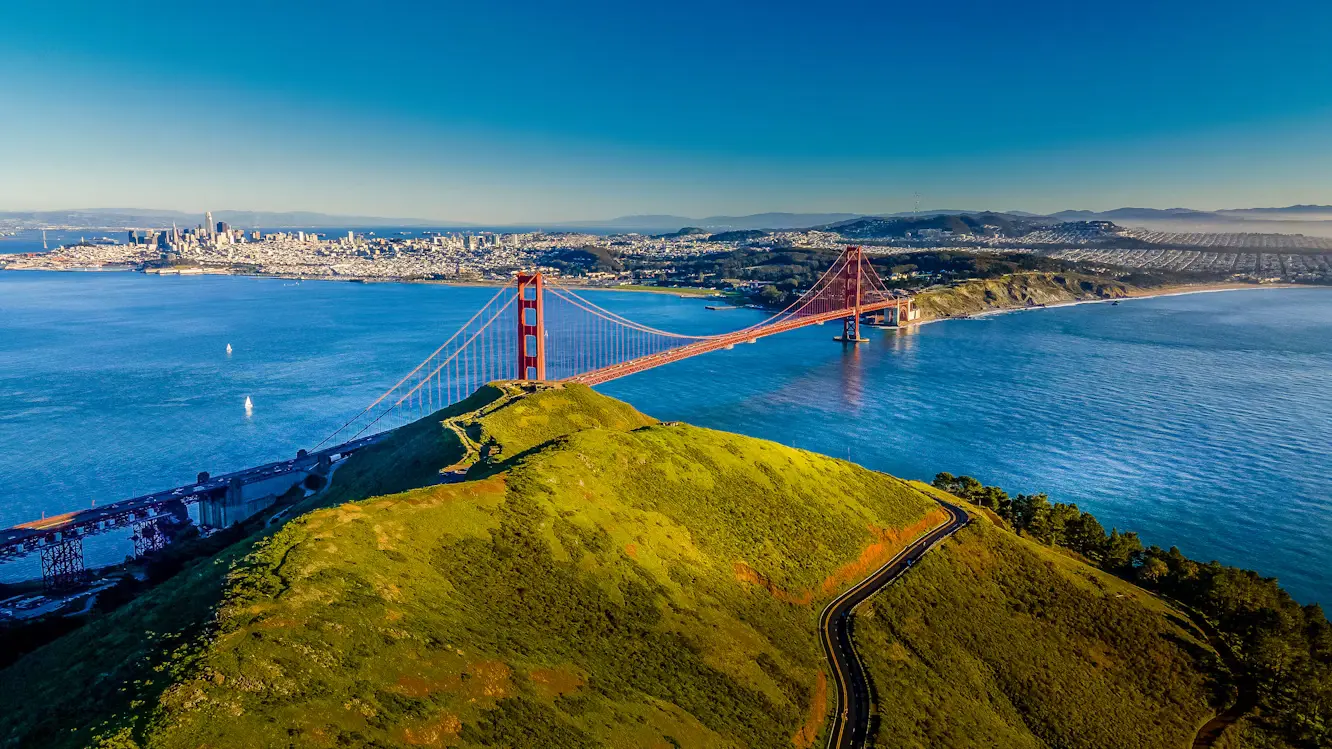
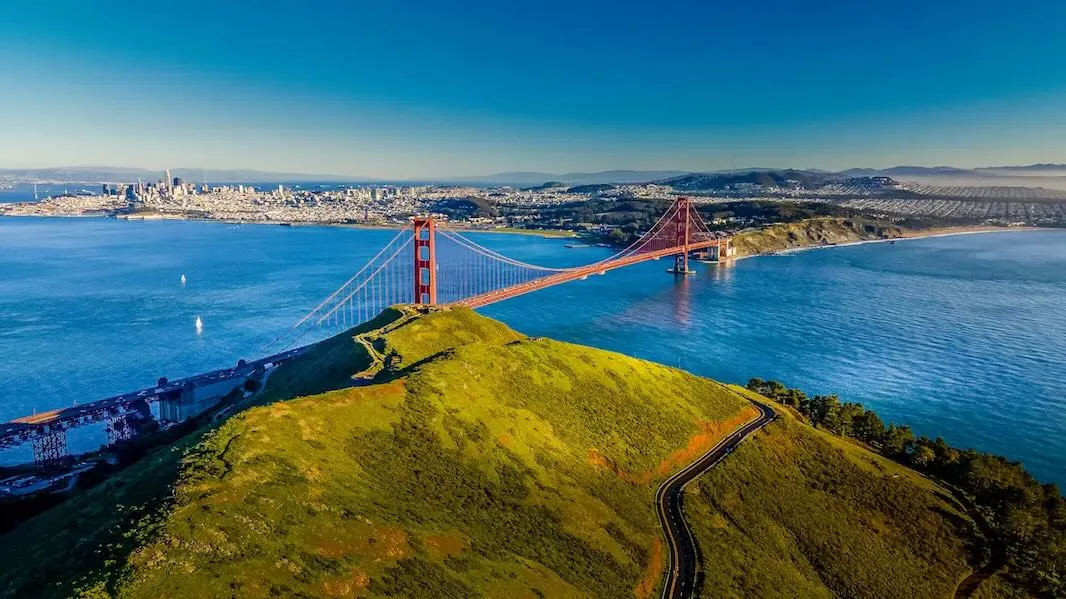
update image size

diff --git a/place.html b/place.html
@@ -4,6 +4,7 @@
 <head>
     <meta charset="UTF-8">
     <meta name="viewport" content="width=device-width, initial-scale=1.0">
+    <meta name="author" content="Fredy Navas">
     <title>Bay Area, California</title>
     <meta name="description" content="This website has information about a place and its interesting facts and other data.">
     <link rel="stylesheet" href="styles/place.css">

diff --git a/styles/place.css b/styles/place.css
@@ -29,9 +29,8 @@ header h1 {
 }
 
 .hero img {
-    /*width: 100%;*/
+    width: 100%;
     display: block;
-    margin: auto;
 }
 
 .cards {
